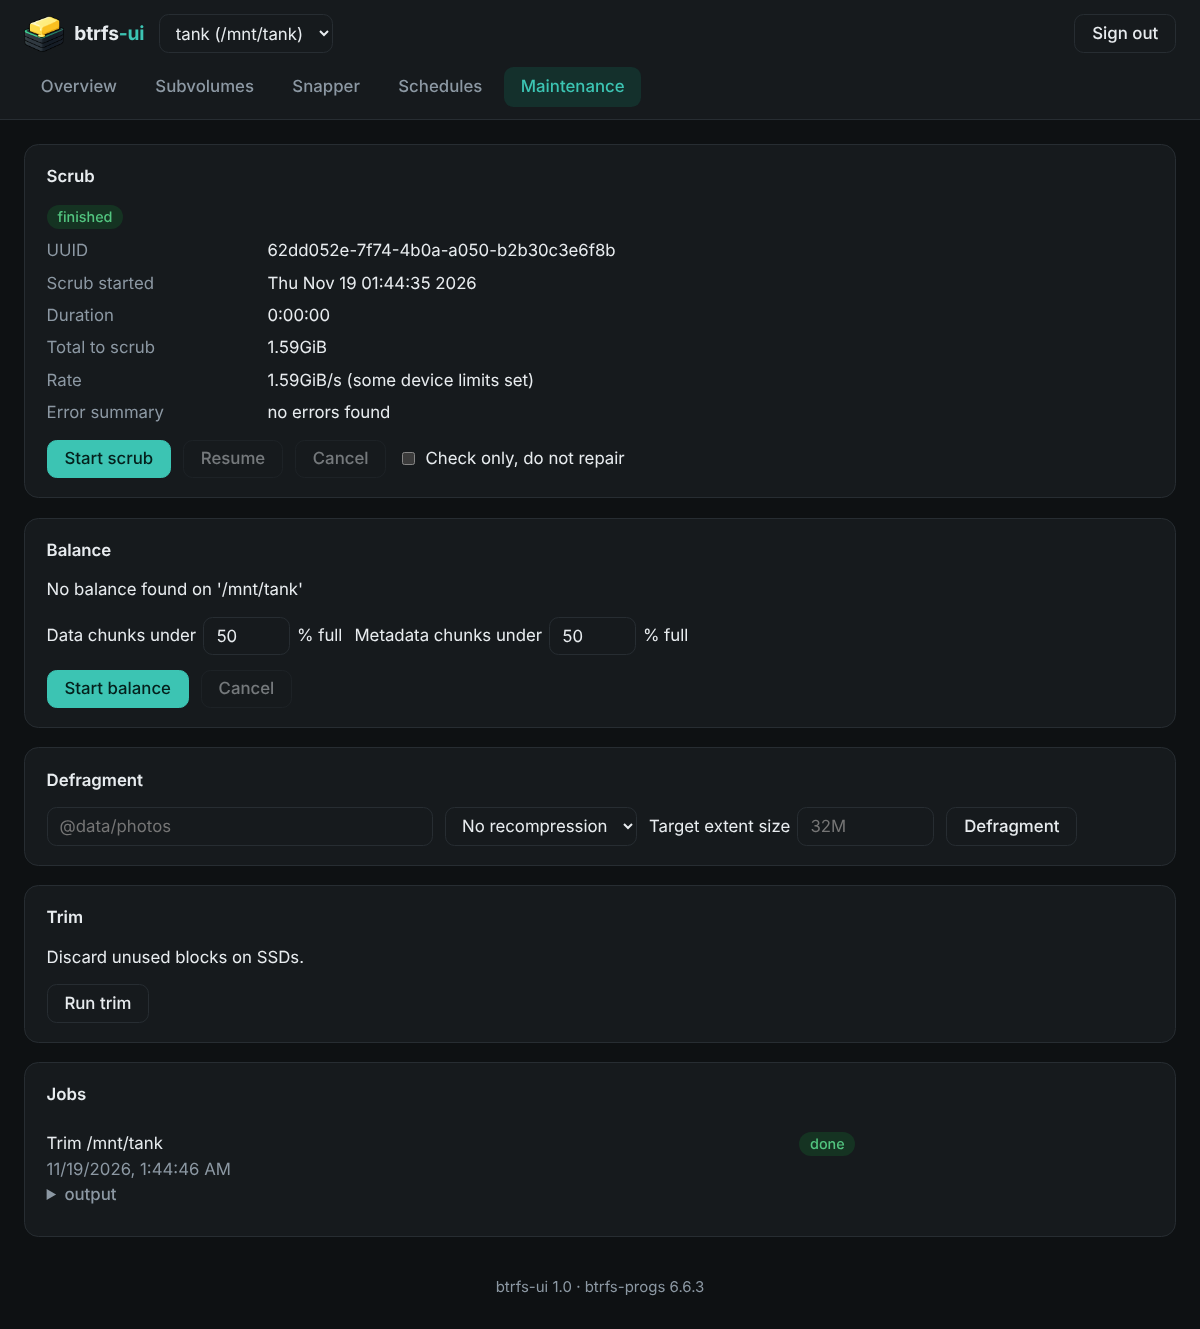
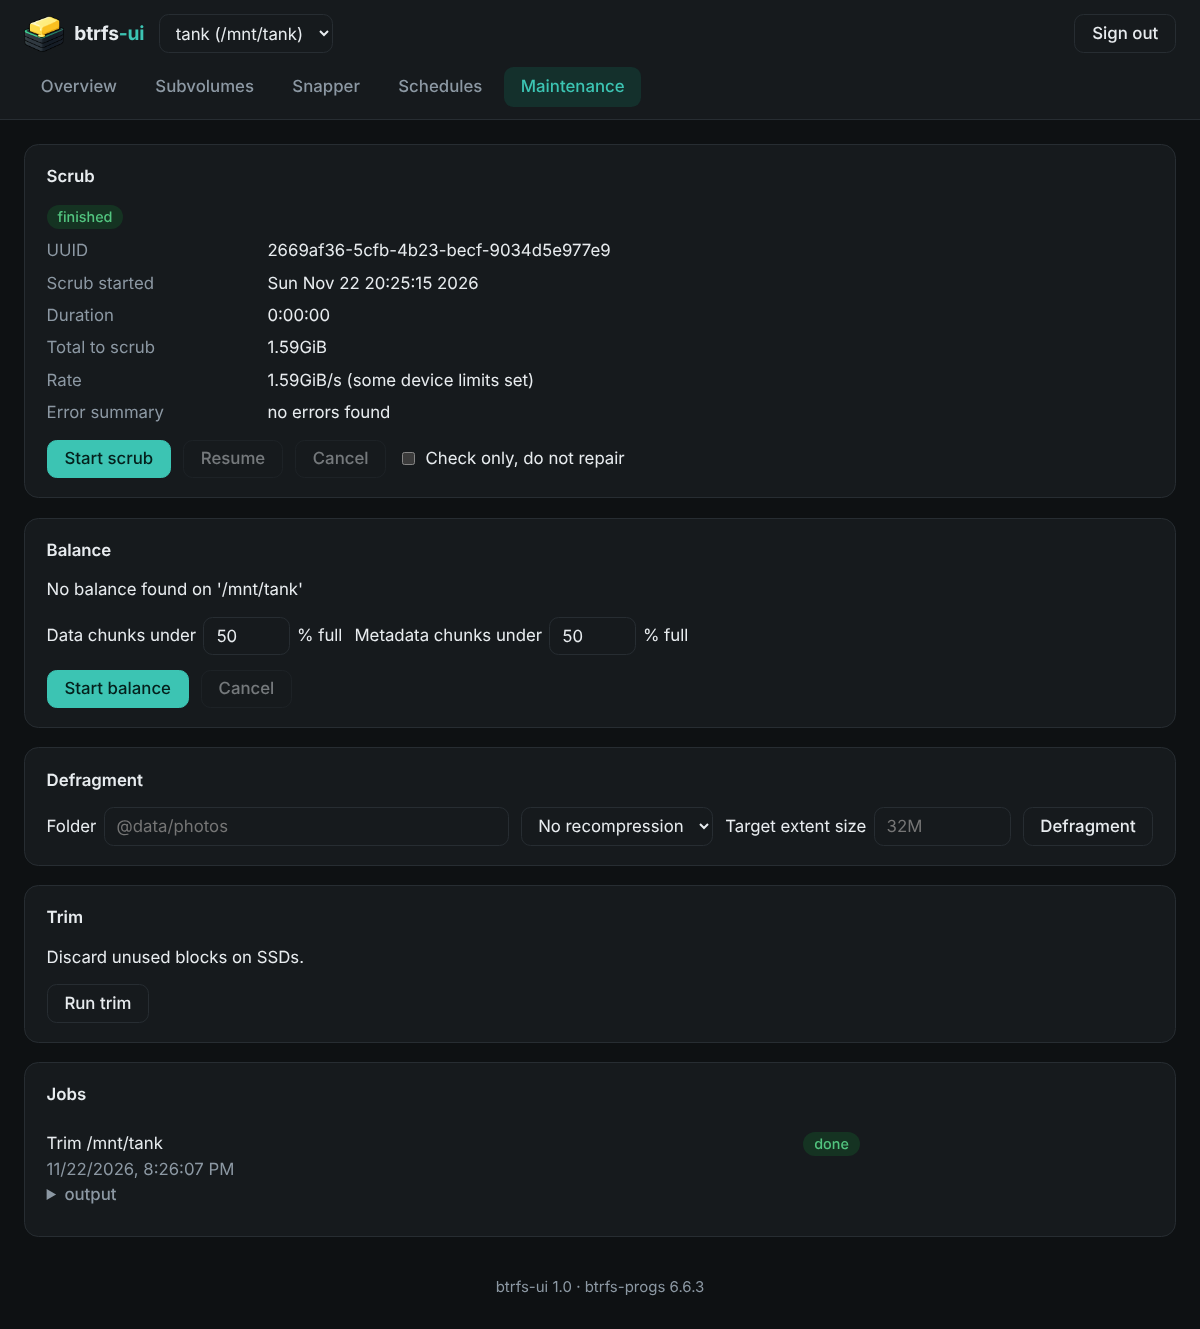
Add a Folder label to the Defragment path field
Retake the Maintenance screenshots to match.

diff --git a/app/static/app.js b/app/static/app.js
@@ -740,7 +740,7 @@ async function viewMaintenance(root) {
   balCancel.onclick = () => perform(() => api('POST', `/api/fs/${id}/balance`, { action: 'cancel' }), 'Cancel requested');
 
   // defrag
-  const defragPath = h('input', { type: 'text', class: 'grow', placeholder: '@data/photos', size: 28 });
+  const defragPath = h('input', { type: 'text', placeholder: '@data/photos', size: 28 });
   const defragComp = h('select', null, [['', 'No recompression'], ['zstd', 'zstd'], ['zlib', 'zlib'], ['lzo', 'lzo']]
     .map(([v, l]) => h('option', { value: v }, l)));
   const defragSize = h('input', { type: 'text', placeholder: '32M', size: 6 });
@@ -777,7 +777,8 @@ async function viewMaintenance(root) {
         h('label', { class: 'check' }, 'Metadata chunks under', mUsage, '% full')),
       h('div', { class: 'row' }, balStart, balCancel)),
     section('Defragment',
-      h('div', { class: 'row first' }, defragPath, defragComp,
+      h('div', { class: 'row first' },
+        h('label', { class: 'check grow' }, 'Folder', defragPath), defragComp,
         h('label', { class: 'check' }, 'Target extent size', defragSize), defragBtn)),
     section('Trim',
       h('p', null, 'Discard unused blocks on SSDs.'), h('div', { class: 'row' }, trimBtn)),

diff --git a/app/static/app.css b/app/static/app.css
@@ -160,7 +160,8 @@ label.check { display: inline-flex; align-items: center; gap: 0.4286rem; }
 .card + .card { margin-top: 1rem; }
 .row { display: flex; gap: 0.7143rem; align-items: center; flex-wrap: wrap; margin-top: 0.8571rem; }
 /* A text field in a row gives up width before the row wraps. */
-.row input.grow { flex: 1 1 8rem; min-width: 8rem; max-width: 23rem; width: auto; }
+.row label.grow { flex: 1 1 14rem; max-width: 28rem; }
+.row label.grow input { flex: 1; min-width: 8rem; width: auto; }
 .empty { padding: 2rem 0; color: var(--muted); }
 pre {
   margin: 0.5714rem 0 0; padding: 0.8571rem; background: var(--soft); border: 1px solid var(--line);
